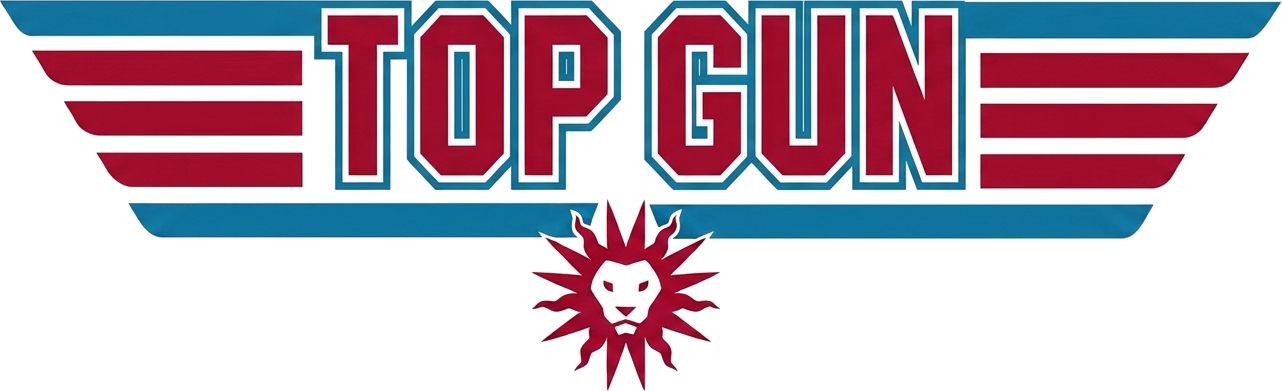
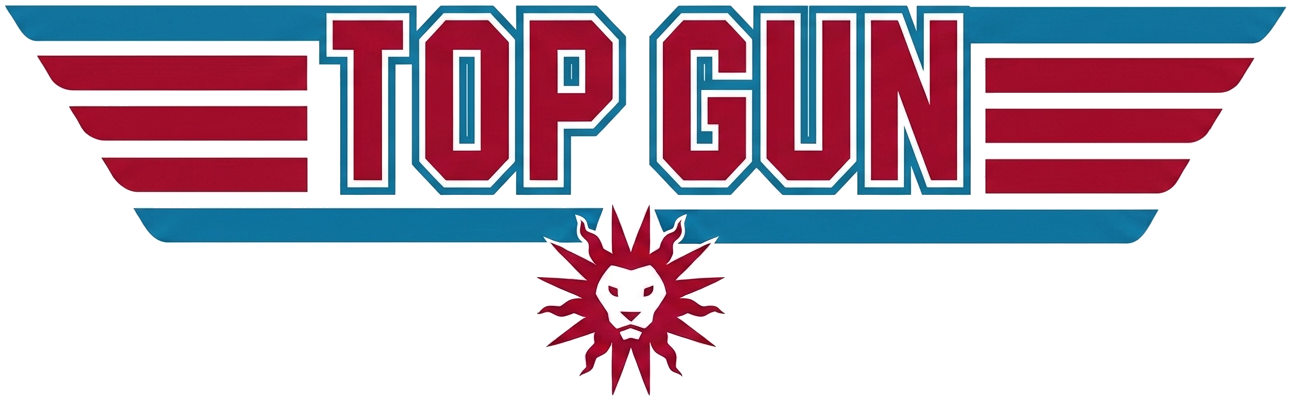
fix: TOP GUN mark's outline was clipped, and it sat too close to LMU
Brad, screenshot: "the white outline gets cut off, and much of the text is
overlapping... keep the space top and bottom as it was before."

Root cause of the clipped outline: last round, I cropped the image tight
to its content BEFORE dilating the alpha mask to paint the white halo --
so the dilation had no canvas space left to expand into and got clipped
exactly at the artwork's own edge, on every side. Fixed by padding the
crop before dilating, then cropping tight to the DILATED mask's own bbox
afterward (the true final content bounds, outline fully intact). Verified
zero clipping the same way as last time: scanned a live screenshot for
any brightness spike matching the old defect's signature -- none found.

The overlap-with-LMU part was a consequence of the same crop -- this
image is now tight to its own outline's edge with zero transparent
buffer left (unlike the old mark, which had generous padding baked in),
so the small negative margin from the previous round cut straight into
the visible outline. Removed the negative margin entirely in favor of a
plain 10px top margin -- a real, visible gap under LMU (confirmed via
getBoundingClientRect: LMU ends at y=212, the mark starts at y=222, no
overlap), still centered to sub-pixel precision.

Changed region(s): [[0.0, 0.0, 1.0, 0.491], [0.0936, 0.5217, 0.9048, 0.9821], [0.0936, 0.4604, 0.1248, 0.491]]

diff --git a/app/dashboards/velo_board/visual.py b/app/dashboards/velo_board/visual.py
@@ -62,14 +62,17 @@ def top_gun_header() -> html.Div:
     )
     top_gun = html.Img(
         src=_TOP_GUN_SRC, alt="TOP GUN",
-        # 2026-09-25: swapped the LIONS wordmark for a TOP GUN one (Brad) --
-        # tightly cropped (no loose transparent padding baked in, unlike the
-        # old mark), so the old -48px negative margin (sized for that extra
-        # padding) now overlapped the real artwork onto the LMU arch above
-        # it instead of just closing a gap. Small negative margin instead,
-        # tuned for this image's own much shorter rendered height (its
-        # aspect ratio is far wider/shorter than the old mark's).
-        style={"display": "block", "margin": "-6px auto 0", "width": "100%",
+        # 2026-09-25: swapped the LIONS wordmark for a TOP GUN one (Brad).
+        # No negative margin (round 2 -- Brad, screenshot: "the white
+        # outline gets cut off, and much of the text is overlapping...
+        # keep the space top and bottom as it was before") -- this image
+        # is cropped tight to its own OUTLINE's edge (zero transparent
+        # buffer beyond the outline itself, unlike the old mark, which had
+        # generous transparent padding baked in), so ANY negative margin
+        # cuts straight into the visible outline/artwork instead of just
+        # closing padding. Plain top margin instead for a real, visible
+        # gap under LMU.
+        style={"display": "block", "margin": "10px auto 0", "width": "100%",
                "maxWidth": "500px", "height": "auto"},
     )
     subtitle = html.Div("VELO BOARD", className="paw-banner-title", style={
